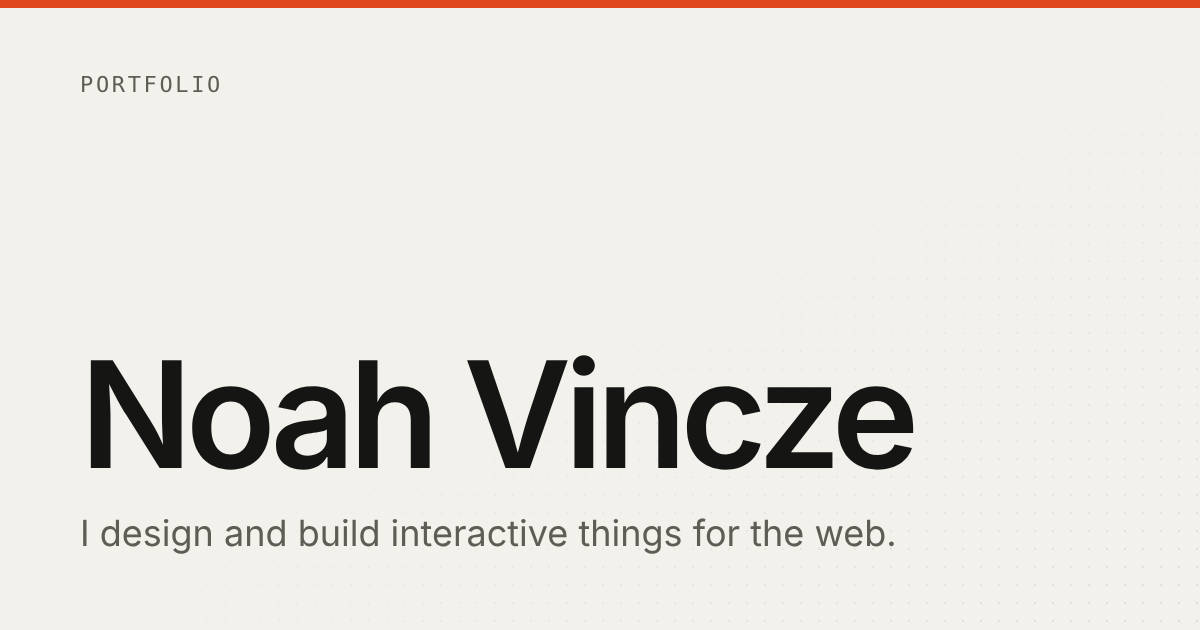
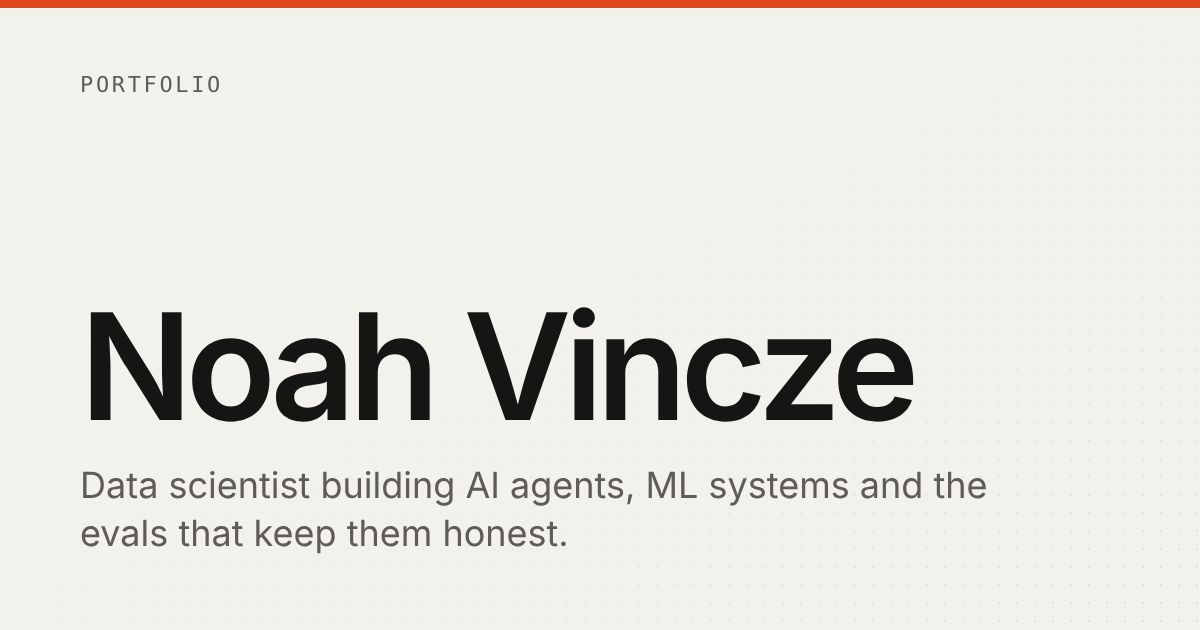
Accurate tagline and description
The home tagline said I design and build interactive things for the web;
it now reads: Data scientist building AI agents, ML systems and the evals
that keep them honest. The meta description matches, and the share image
(public/og.png) is regenerated from scripts/og-image.html.

Claude-Session: https://claude.ai/code/session_01RbwdoCwC64XoLZDnmKgzo5

Changed region(s): [[0.0617, 0.4825, 0.8325, 0.8746]]

diff --git a/src/site.ts b/src/site.ts
@@ -3,10 +3,10 @@
  */
 export const site = {
   name: 'Noah Vincze',
-  /** PLACEHOLDER: one line under the name on the home page. */
-  tagline: 'I design and build interactive things for the web.',
-  /** PLACEHOLDER: used as the default meta description. */
-  description: 'Portfolio of Noah Vincze: selected work, background and contact.',
+  /** One line under the name on the home page (also in link previews and scripts/og-image.html). */
+  tagline: 'Data scientist building AI agents, ML systems and the evals that keep them honest.',
+  /** The default meta description. */
+  description: 'Noah Vincze is a data scientist working on AI agents, LLMs and machine learning. Selected work, background and contact.',
   /** PLACEHOLDER: replace with the address you want visitors to use. */
   email: 'hello@example.com',
   socials: [

diff --git a/scripts/og-image.html b/scripts/og-image.html
@@ -50,6 +50,6 @@
     <div class="bar"></div>
     <div class="label">Portfolio</div>
     <h1>Noah Vincze</h1>
-    <p>I design and build interactive things for the web.</p>
+    <p>Data scientist building AI agents, ML systems and the evals that keep them honest.</p>
   </body>
 </html>
